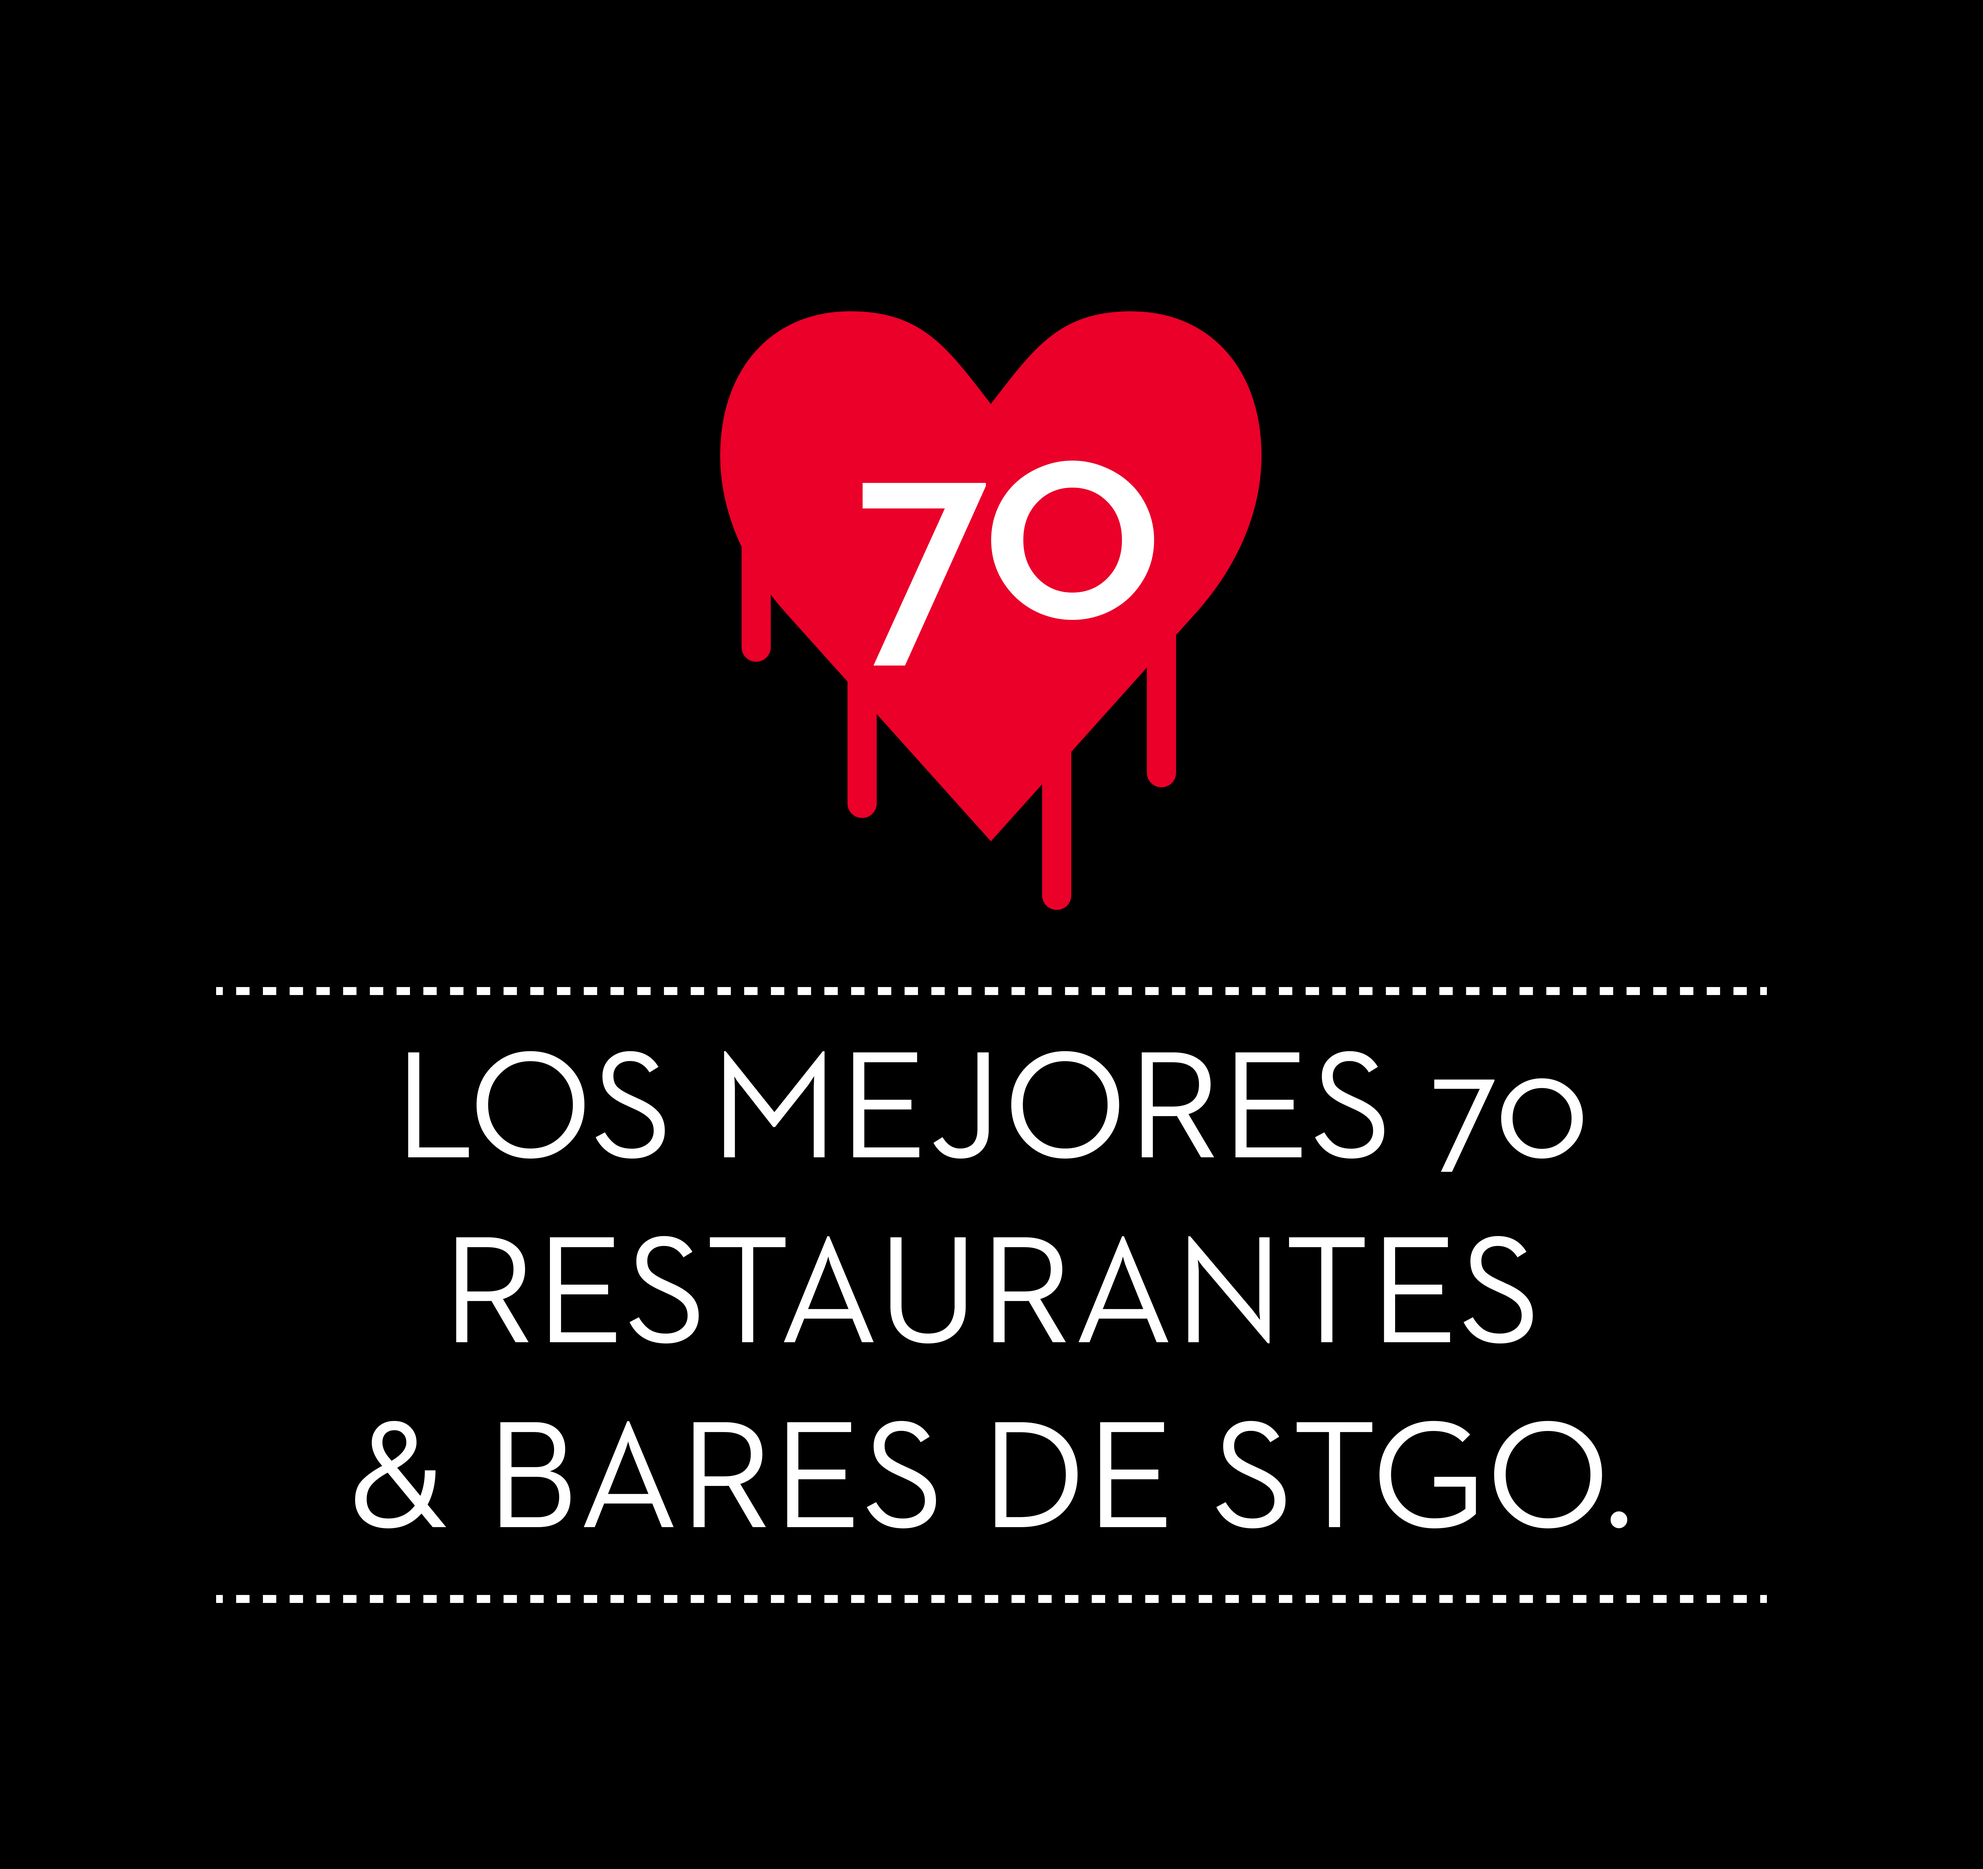
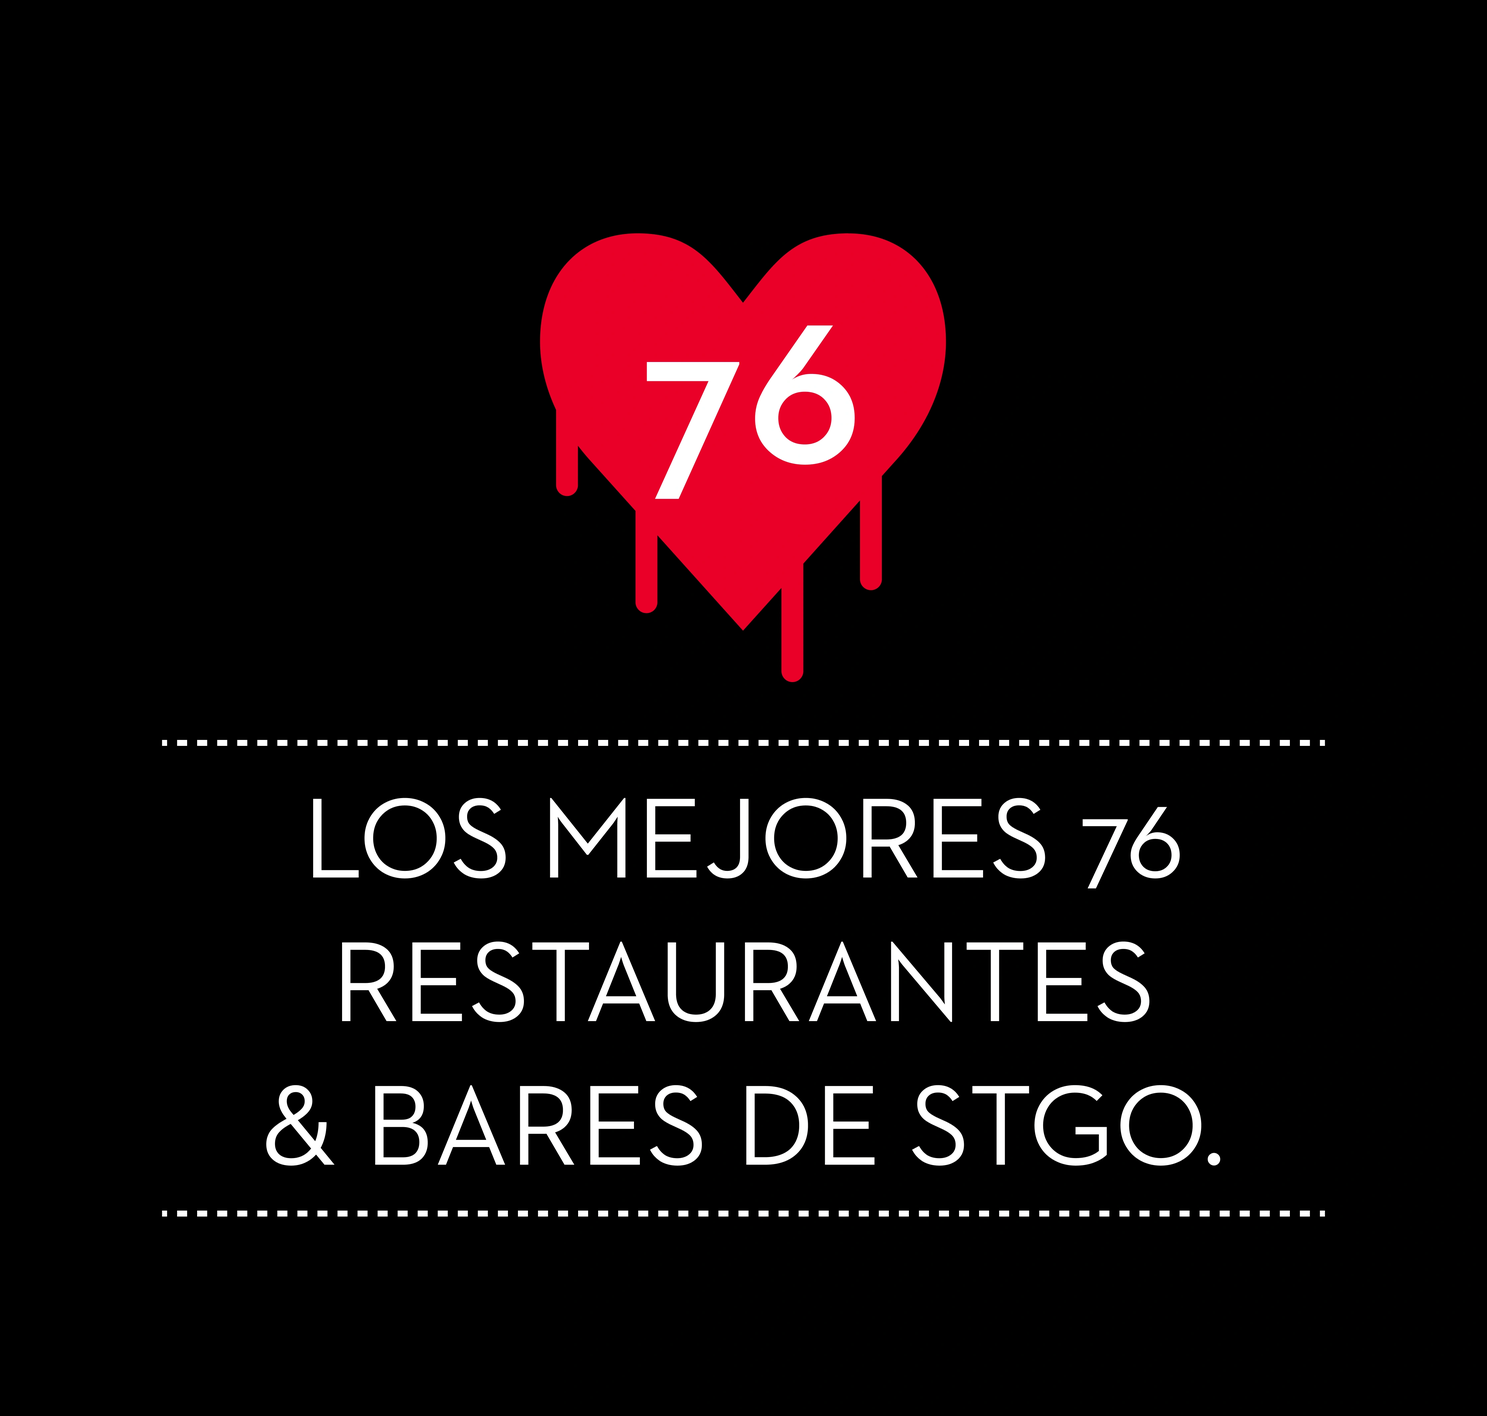
updat

diff --git a/app/categoria/[slug]/page.tsx b/app/categoria/[slug]/page.tsx
@@ -1166,14 +1166,14 @@ export default function CategoryPage({ params }: { params: any }) {
                 }
                 src={
                   slug === "cafes"
-                    ? "/bannerHome/BANNER DESKTOP 50 CAFES.png"
+                    ? "/bannerHome/BANNER DESKTOP 50 CAFES.webp"
                     : slug === "la-ruta-toyota"
                       ? "/bannerstoyota/BANNER LA RUTA TOYOTA.webp"
                       : "/bannerHome/BANNER MONUMENTOS.svg"
                 }
                 mobileSrc={
                   slug === "cafes"
-                    ? "/bannerHome/30 CAFES.png"
+                    ? "/bannerHome/30 CAFES.webp"
                     : slug === "la-ruta-toyota"
                       ? "/bannerstoyota/BANNER LA RUTA TOYOTA.webp"
                       : "/bannerHome/monumentos movil.png"

diff --git a/components/hotel-detail.tsx b/components/hotel-detail.tsx
@@ -469,7 +469,7 @@ export function HotelDetail({ hotel }: HotelDetailProps) {
               }
               src={
                 isCafesPost
-                  ? "/bannerHome/BANNER DESKTOP 50 CAFES.png"
+                  ? "/bannerHome/BANNER DESKTOP 50 CAFES.webp"
                   : isToyotaPost
                     ? "/bannerstoyota/BANNER LA RUTA TOYOTA.webp"
                     : isMonumentosPost
@@ -478,7 +478,7 @@ export function HotelDetail({ hotel }: HotelDetailProps) {
               }
               mobileSrc={
                 isCafesPost
-                  ? "/bannerHome/30 CAFES.png"
+                  ? "/bannerHome/30 CAFES.webp"
                   : isToyotaPost
                     ? "/bannerstoyota/BANNER LA RUTA TOYOTA.webp"
                     : isMonumentosPost

diff --git a/app/page.home-v1.tsx b/app/page.home-v1.tsx
@@ -81,12 +81,12 @@ export default function Page() {
   > = {
     es: {
       href: "/restaurantes",
-      src: "/bannerHome/65 RESTAURANTES.svg",
+      src: "/bannerHome/70 RESTAURANTES.webp",
       alt: "Banner Restaurantes (ES)",
     },
     en: {
       href: "/restaurantes",
-      src: "/bannerHome/65 RESTAURANTES.svg",
+      src: "/bannerHome/70 RESTAURANTES.webp",
       alt: "Restaurants Banner (EN)",
     },
   };

diff --git a/app/page.home-v2.tsx b/app/page.home-v2.tsx
@@ -157,7 +157,7 @@ export default function Page() {
                     loading="lazy"
                   />
                   <img
-                    src="/bannerHome/65 RESTAURANTES.svg"
+                    src="/bannerHome/70 RESTAURANTES.webp"
                     alt="Restaurantes"
                     className="hidden md:block max-w-full max-h-full object-contain p-3 md:p-4 lg:p-5"
                     loading="lazy"

diff --git a/app/page.tsx b/app/page.tsx
@@ -243,7 +243,7 @@ function HomeContent() {
                     loading="lazy"
                   />
                   <Image
-                    src="/bannerHome/65 RESTAURANTES.svg"
+                    src="/bannerHome/70 RESTAURANTES.webp"
                     alt="Restaurantes"
                     width={435}
                     height={437}

diff --git a/components/home-promo-banners.tsx b/components/home-promo-banners.tsx
@@ -38,7 +38,7 @@ export function PromoStackBanners() {
           aria-label="Ir a cafés"
         >
           <img
-            src="/bannerHome/30 CAFES.png"
+            src="/bannerHome/30 CAFES.webp"
             alt="Cafés"
             className="w-full h-full object-contain md:object-cover"
             style={{

diff --git a/components/home-promo-banners.home-v2.tsx b/components/home-promo-banners.home-v2.tsx
@@ -32,7 +32,7 @@ export function PromoStackBanners() {
           aria-label="Ir a cafés"
         >
           <Image
-            src="/bannerHome/30 CAFES.png"
+            src="/bannerHome/30 CAFES.webp"
             alt="Cafés"
             width={435}
             height={210}
